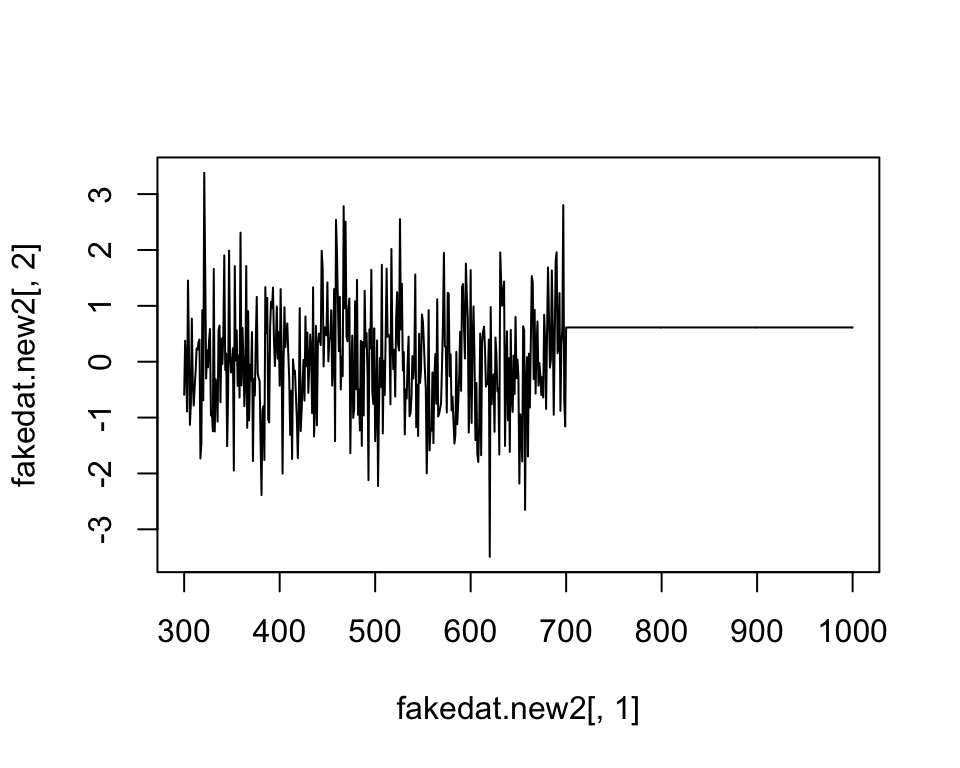
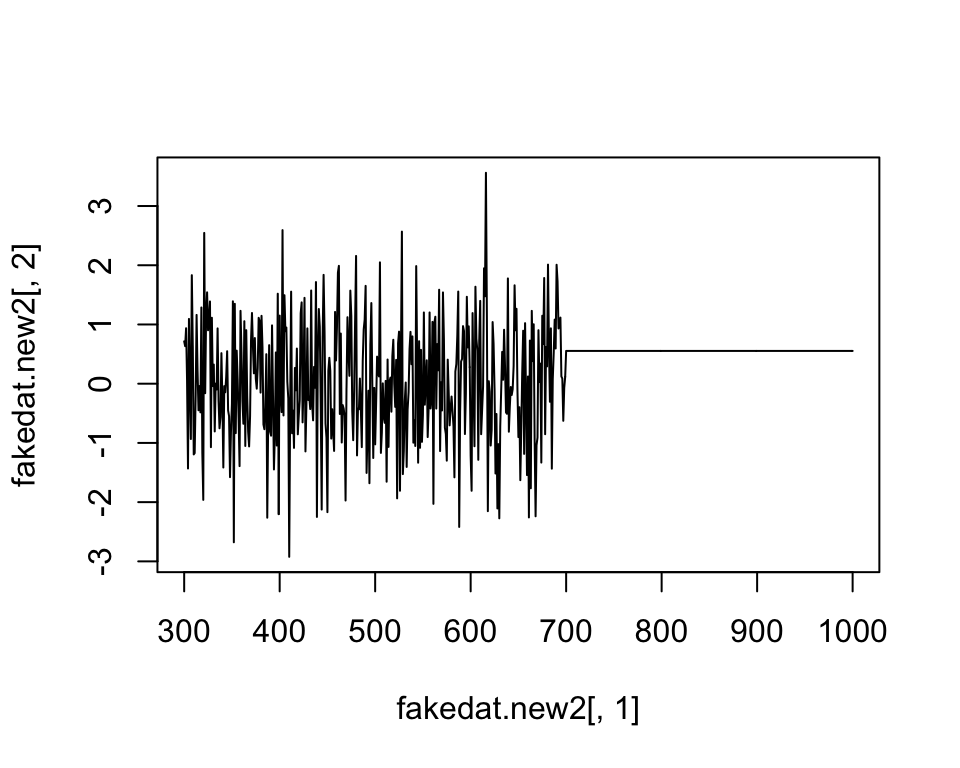
First pass at cie2000 distance

Changed region(s): [[0.1875, 0.25, 0.875, 0.6875], [0.0938, 0.3125, 0.125, 0.75], [0.0938, 0.25, 0.125, 0.2812]]

diff --git a/docs/articles/pavo.html b/docs/articles/pavo.html
@@ -117,13 +117,13 @@ fakedat &lt;-<span class="st"> </span><span class="kw">data.frame</span>(<span c
                       <span class="dt">refl2 =</span> <span class="kw">rnorm</span>(<span class="dt">n =</span> <span class="dv">801</span>), 
                       <span class="dt">wavelength =</span> <span class="kw">seq</span>(<span class="dv">300</span>, <span class="dv">700</span>, <span class="dt">by =</span> .<span class="dv">5</span>))
 <span class="kw">head</span>(fakedat)</code></pre></div>
-<pre><code>##         refl1      refl2 wavelength
-## 1 -0.59181524  1.7470503      300.0
-## 2  0.38147839 -0.3067690      300.5
-## 3  0.37534085 -0.1506863      301.0
-## 4  0.93583474 -0.3668199      301.5
-## 5 -0.04372582  1.6929348      302.0
-## 6 -0.79675171 -0.2984046      302.5</code></pre>
+<pre><code>##        refl1      refl2 wavelength
+## 1  0.7150491 -0.1315969      300.0
+## 2 -0.4679484  1.6762680      300.5
+## 3  0.6341692 -0.8099154      301.0
+## 4 -0.1105081 -0.4170580      301.5
+## 5  0.9361751 -0.8456390      302.0
+## 6 -1.1866671 -1.6351672      302.5</code></pre>
 <div class="sourceCode"><pre class="sourceCode r"><code class="sourceCode r"><span class="kw"><a href="../reference/as.rspec.html">is.rspec</a></span>(fakedat)</code></pre></div>
 <pre><code>## [1] FALSE</code></pre>
 <div class="sourceCode"><pre class="sourceCode r"><code class="sourceCode r">fakedat.new &lt;-<span class="st"> </span><span class="kw"><a href="../reference/as.rspec.html">as.rspec</a></span>(fakedat)</code></pre></div>
@@ -131,22 +131,22 @@ fakedat &lt;-<span class="st"> </span><span class="kw">data.frame</span>(<span c
 <div class="sourceCode"><pre class="sourceCode r"><code class="sourceCode r"><span class="kw"><a href="../reference/as.rspec.html">is.rspec</a></span>(fakedat.new)</code></pre></div>
 <pre><code>## [1] TRUE</code></pre>
 <div class="sourceCode"><pre class="sourceCode r"><code class="sourceCode r"><span class="kw">head</span>(fakedat.new)</code></pre></div>
-<pre><code>##    wl       refl1      refl2
-## 1 300 -0.59181524  1.7470503
-## 2 301  0.37534085 -0.1506863
-## 3 302 -0.04372582  1.6929348
-## 4 303 -0.89129623  0.3398778
-## 5 304  1.45214974  0.5669444
-## 6 305  0.19950672  1.1050573</code></pre>
+<pre><code>##    wl       refl1       refl2
+## 1 300  0.71504909 -0.13159693
+## 2 301  0.63416915 -0.80991544
+## 3 302  0.93617515 -0.84563900
+## 4 303  0.06301449  0.78476186
+## 5 304 -1.43167604 -2.18782052
+## 6 305  1.09343199 -0.06745649</code></pre>
 <p>As can be seen, <code>as.rspec</code> renames the column containing wavelengths, sets it as the first column, interpolates the data in 1-nm bins and converts the data to an <code>rspec</code> object. Note that the same output is returned with specifying <code>whichwl = 3</code>:</p>
 <div class="sourceCode"><pre class="sourceCode r"><code class="sourceCode r"><span class="kw">head</span>(<span class="kw"><a href="../reference/as.rspec.html">as.rspec</a></span>(fakedat, <span class="dt">whichwl =</span> <span class="dv">3</span>))</code></pre></div>
-<pre><code>##    wl       refl1      refl2
-## 1 300 -0.59181524  1.7470503
-## 2 301  0.37534085 -0.1506863
-## 3 302 -0.04372582  1.6929348
-## 4 303 -0.89129623  0.3398778
-## 5 304  1.45214974  0.5669444
-## 6 305  0.19950672  1.1050573</code></pre>
+<pre><code>##    wl       refl1       refl2
+## 1 300  0.71504909 -0.13159693
+## 2 301  0.63416915 -0.80991544
+## 3 302  0.93617515 -0.84563900
+## 4 303  0.06301449  0.78476186
+## 5 304 -1.43167604 -2.18782052
+## 6 305  1.09343199 -0.06745649</code></pre>
 <p>Finally, the <code>lim</code> argument allows you to specify the range of wavelengths contained in the input dataset. This is useful either in the case that the dataset doesn’t contain this information (and hence you cannot specify the column with <code>whichwl</code> or automatically find the column with <code>as.rspec</code>). Additionally, it may be useful to focus on a subset of wavelength. In our example, the wavelengths ranged from 300 to 700 nm, however you could also specify a restricted range of wavelengths with <code>lim</code>:</p>
 <div class="sourceCode"><pre class="sourceCode r"><code class="sourceCode r">fakedat.new2 &lt;-<span class="st"> </span><span class="kw"><a href="../reference/as.rspec.html">as.rspec</a></span>(fakedat, <span class="dt">lim =</span> <span class="kw">c</span>(<span class="dv">300</span>, <span class="dv">500</span>))</code></pre></div>
 <pre><code>## wavelengths found in column 3</code></pre>

diff --git a/docs/reference/cieplot.html b/docs/reference/cieplot.html
@@ -145,9 +145,15 @@ plotted when <code>space = 'ciexyz'</code>? Defaults to <code>TRUE</code>.</p></
     <h2 class="hasAnchor" id="examples"><a class="anchor" href="#examples"></a>Examples</h2>
     <pre class="examples"><div class='input'><span class='fu'>not_run</span>({
   <span class='fu'>data</span>(<span class='no'>flowers</span>)
-  <span class='no'>vis.flowers</span> <span class='kw'>&lt;-</span> <span class='fu'><a href='vismodel.html'>vismodel</a></span>(<span class='no'>flowers</span>, <span class='kw'>visual</span> <span class='kw'>=</span> <span class='st'>'cie2'</span>, <span class='kw'>illum</span> <span class='kw'>=</span> <span class='st'>'D65'</span>)
-  <span class='no'>cie.flowers</span> <span class='kw'>&lt;-</span> <span class='fu'><a href='colspace.html'>colspace</a></span>(<span class='no'>vis.flowers</span>, <span class='kw'>space</span> <span class='kw'>=</span> <span class='st'>'ciexyz'</span>)
-  <span class='fu'>plot</span>(<span class='no'>cie.flowers</span>)
+
+  <span class='co'># CIEXYZ</span>
+  <span class='no'>vis.flowers</span> <span class='kw'>&lt;-</span> <span class='fu'><a href='vismodel.html'>vismodel</a></span>(<span class='no'>flowers</span>, <span class='kw'>visual</span> <span class='kw'>=</span> <span class='st'>'cie10'</span>, <span class='kw'>illum</span> <span class='kw'>=</span> <span class='st'>'D65'</span>, <span class='kw'>vonkries</span> <span class='kw'>=</span> <span class='fl'>TRUE</span>, <span class='kw'>relative</span> <span class='kw'>=</span> <span class='fl'>FALSE</span>)
+  <span class='no'>xyz.flowers</span> <span class='kw'>&lt;-</span> <span class='fu'><a href='colspace.html'>colspace</a></span>(<span class='no'>vis.flowers</span>, <span class='kw'>space</span> <span class='kw'>=</span> <span class='st'>'ciexyz'</span>)
+  <span class='fu'>plot</span>(<span class='no'>xyz.flowers</span>)
+
+  <span class='co'>#CIELAB</span>
+  <span class='no'>lab.flowers</span> <span class='kw'>&lt;-</span> <span class='fu'><a href='colspace.html'>colspace</a></span>(<span class='no'>vis.flowers</span>, <span class='kw'>space</span> <span class='kw'>=</span> <span class='st'>'cielab'</span>)
+  <span class='fu'>plot</span>(<span class='no'>lab.flowers</span>)
 })</div></pre>
   </div>
   <div class="col-md-3 hidden-xs hidden-sm" id="sidebar">
